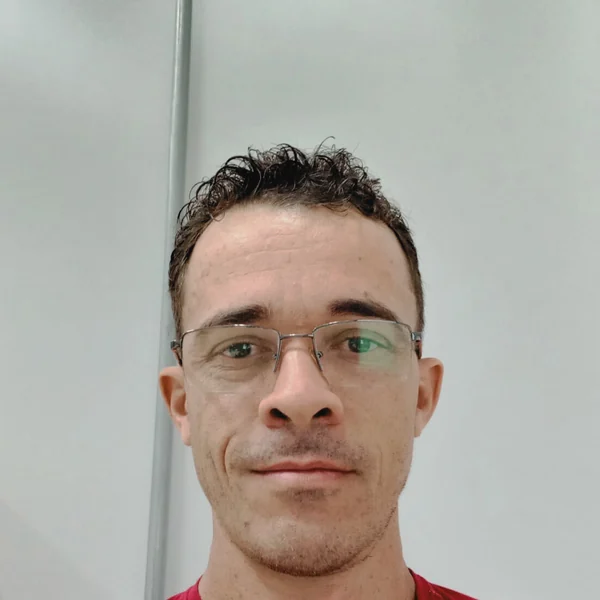
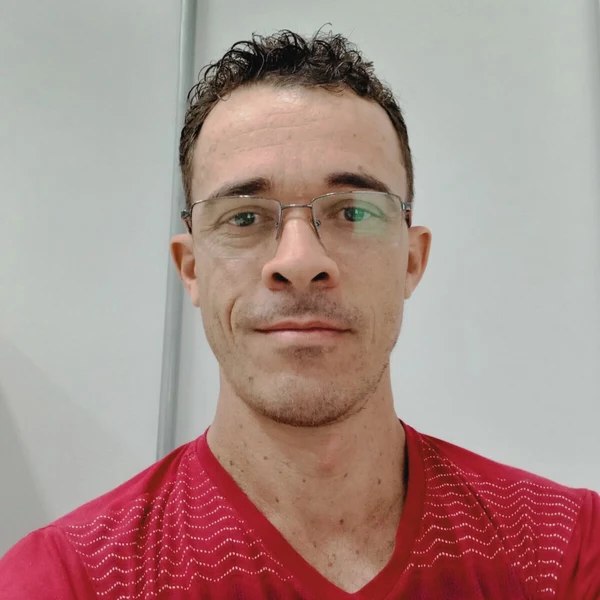
43.6

diff --git a/templates/sobre.html b/templates/sobre.html
@@ -36,25 +36,23 @@
             <p>Engenheiro Eletricista e Computacional · Doutor em Engenharia Elétrica e Computação</p>
             <nav class="author-popover-links" aria-label="Contatos de Daywes Pinheiro Neto">
               <a href="mailto:daywes.neto@ifg.edu.br">E-mail</a>
+              <a href="http://lattes.cnpq.br/3885723899789699" target="_blank" rel="noopener noreferrer">Lattes</a>
             </nav>
           </div>
         </div>
         <p class="author-popover-bio">
           Professor do Instituto Federal de Goiás, mestre e doutor pela UFG e pós-doutor pela Universidade de Coimbra. Atua em energias renováveis, mobilidade elétrica, engenharia econômica e computação aplicada.
         </p>
-        <a class="author-lattes-link" href="http://lattes.cnpq.br/3885723899789699" target="_blank" rel="noopener noreferrer">
-          Currículo Lattes <span aria-hidden="true">↗</span>
-        </a>
       </aside>
     </article>
 
     <article class="author-entry author-entry--center">
       <div class="author-summary">
-        <img class="author-avatar" src="{{ url_for('static', filename='img/institucional/carlos-roberto-silveira-junior.webp') }}" alt="Prof. Dr. Carlos Roberto da Silveira Júnior" loading="lazy">
+        <img class="author-avatar" src="{{ url_for('static', filename='img/institucional/carlos-roberto-silveira-junior.webp') }}" alt="Prof. Dr. Carlos Roberto da Silveira Jr." loading="lazy">
         <div class="author-identification">
           <span class="author-prefix">Prof. Dr.</span>
           <button class="author-name-link" type="button" data-author-popover="author-carlos" aria-expanded="false" aria-controls="author-carlos">
-            Carlos Roberto da Silveira Júnior
+            Carlos Roberto Silveira Jr.
           </button>
         </div>
       </div>
@@ -63,20 +61,18 @@
         <div class="author-popover-header">
           <img src="{{ url_for('static', filename='img/institucional/carlos-roberto-silveira-junior.webp') }}" alt="" aria-hidden="true">
           <div>
-            <h3 id="author-carlos-title">Prof. Dr. Carlos Roberto da Silveira Júnior</h3>
+            <h3 id="author-carlos-title">Prof. Dr. Carlos Roberto da Silveira Jr.</h3>
             <p>Professor titular do IFG · Doutor em Ciências Ambientais</p>
-            <nav class="author-popover-links" aria-label="Contatos de Carlos Roberto da Silveira Júnior">
-              <a href="https://www.linkedin.com/in/carlos-roberto-da-silveira-junior-957b47298/" target="_blank" rel="noopener noreferrer">LinkedIn</a>
+            <nav class="author-popover-links" aria-label="Contatos de Carlos Roberto da Silveira Jr.">
               <a href="mailto:carlos.junior@ifg.edu.br">E-mail</a>
+              <a href="https://www.linkedin.com/in/carlos-roberto-da-silveira-junior-957b47298/" target="_blank" rel="noopener noreferrer">LinkedIn</a>
+              <a href="http://lattes.cnpq.br/5503461601783322" target="_blank" rel="noopener noreferrer">Lattes</a>
             </nav>
           </div>
         </div>
         <p class="author-popover-bio">
           Mestre em Engenharia Elétrica e de Computação pela UFG. Atua em inteligência artificial, Internet das Coisas, sensoriamento remoto e sistemas eletrônicos de medição e controle.
         </p>
-        <a class="author-lattes-link" href="http://lattes.cnpq.br/5503461601783322" target="_blank" rel="noopener noreferrer">
-          Currículo Lattes <span aria-hidden="true">↗</span>
-        </a>
       </aside>
     </article>
 
@@ -95,19 +91,17 @@
           <img src="{{ url_for('static', filename='img/institucional/alisson-vieira-da-silva.webp') }}" alt="" aria-hidden="true">
           <div>
             <h3 id="author-alisson-title">Alisson Vieira da Silva</h3>
-            <p>Engenheiro de Controle e Automação · Mestrando em Tecnologia, Gestão e Sustentabilidade</p>
+            <p>Engenheiro de Controle e Automação · Estudante do PPGTGS em Energias Renováveis</p>
             <nav class="author-popover-links" aria-label="Contatos de Alisson Vieira da Silva">
-              <a href="https://www.linkedin.com/in/svalisson/" target="_blank" rel="noopener noreferrer">LinkedIn</a>
               <a href="mailto:sv.alisson@gmail.com">E-mail</a>
+              <a href="https://www.linkedin.com/in/svalisson/" target="_blank" rel="noopener noreferrer">LinkedIn</a>
+              <a href="http://lattes.cnpq.br/1978825412536553" target="_blank" rel="noopener noreferrer">Lattes</a>
             </nav>
           </div>
         </div>
         <p class="author-popover-bio">
-          Autor da CurVE, desenvolvida como produto técnico do Programa de Pós-Graduação em Tecnologia, Gestão e Sustentabilidade do Instituto Federal de Goiás.
+          Estudante do Programa de Pós-Graduação em Tecnologia, Gestão e Sustentabilidade do Instituto Federal de Goiás, com ênfase em Energias Renováveis.
         </p>
-        <a class="author-lattes-link" href="http://lattes.cnpq.br/1978825412536553" target="_blank" rel="noopener noreferrer">
-          Currículo Lattes <span aria-hidden="true">↗</span>
-        </a>
       </aside>
     </article>
   </div>
@@ -150,5 +144,5 @@
 
 {% block scripts %}
   {{ super() }}
-  <script src="{{ url_for('static', filename='js/sobre.js') }}?v=20260725_v43_05"></script>
+  <script src="{{ url_for('static', filename='js/sobre.js') }}?v=20260725_v43_06"></script>
 {% endblock %}

diff --git a/static/css/institucional.css b/static/css/institucional.css
@@ -51,7 +51,7 @@
   min-width: 0;
   display: flex;
   align-items: center;
-  padding: clamp(20px, 2.6vw, 30px);
+  padding: clamp(16px, 1.7vw, 20px);
 }
 
 .author-entry + .author-entry {
@@ -62,13 +62,13 @@
   min-width: 0;
   display: flex;
   align-items: center;
-  gap: 16px;
+  gap: 10px;
 }
 
 .author-avatar {
-  width: 78px;
-  height: 78px;
-  flex: 0 0 78px;
+  width: 58px;
+  height: 58px;
+  flex: 0 0 58px;
   display: block;
   border: 4px solid #f3f8f5;
   border-radius: 50%;
@@ -83,7 +83,7 @@
   flex-wrap: wrap;
   gap: 0 5px;
   color: var(--muted);
-  font-size: .9rem;
+  font-size: .78rem;
   line-height: 1.5;
 }
 
@@ -110,6 +110,7 @@
   text-decoration: underline;
   text-decoration-thickness: 1px;
   text-underline-offset: 3px;
+  white-space: nowrap;
   cursor: pointer;
 }
 
@@ -117,6 +118,10 @@
 .author-name-link:focus-visible,
 .author-entry.is-open .author-name-link {
   color: var(--primary-dark);
+}
+
+.author-entry--center .author-name-link {
+  font-size: .72rem;
 }
 
 .author-name-link:focus-visible {
@@ -211,8 +216,7 @@
   margin-top: 10px;
 }
 
-.author-popover-links a,
-.author-lattes-link {
+.author-popover-links a {
   color: #1d4ed8;
   font-size: 14px;
   font-weight: 600;
@@ -236,15 +240,7 @@
   line-height: 1.62;
 }
 
-.author-lattes-link {
-  display: inline-flex;
-  align-items: center;
-  gap: 5px;
-  margin-top: 16px;
-}
-
-.author-popover-links a:hover,
-.author-lattes-link:hover {
+.author-popover-links a:hover {
   color: var(--primary-dark);
 }
 
@@ -711,7 +707,6 @@
 
   .author-popover-header p,
   .author-popover-links a,
-  .author-lattes-link,
   .author-popover-bio {
     font-size: 13px;
   }

diff --git a/templates/base.html b/templates/base.html
@@ -9,7 +9,7 @@
   <link rel="preconnect" href="https://fonts.googleapis.com">
   <link rel="preconnect" href="https://fonts.gstatic.com" crossorigin>
   <link rel="stylesheet" href="{{ url_for('static', filename='css/app.css') }}?v=20260705_v35_marcadores_unificados">
-  <link rel="stylesheet" href="{{ url_for('static', filename='css/institucional.css') }}?v=20260725_v43_05">
+  <link rel="stylesheet" href="{{ url_for('static', filename='css/institucional.css') }}?v=20260725_v43_06">
   {% block head_extra %}{% endblock %}
 </head>
 <body class="internal-page">

diff --git a/tests/test_v43_institutional_pages.py b/tests/test_v43_institutional_pages.py
@@ -18,7 +18,7 @@ class V43InstitutionalPagesTests(unittest.TestCase):
     def test_about_keeps_requested_profile_order_and_contacts(self):
         html = (self.templates / "sobre.html").read_text(encoding="utf-8")
         daywes = html.index("Prof. Dr. Daywes Pinheiro Neto")
-        carlos = html.index("Prof. Dr. Carlos Roberto da Silveira Júnior")
+        carlos = html.index("Prof. Dr. Carlos Roberto da Silveira Jr.")
         alisson = html.index("Alisson Vieira da Silva")
         self.assertLess(daywes, carlos)
         self.assertLess(carlos, alisson)
@@ -35,7 +35,7 @@ class V43InstitutionalPagesTests(unittest.TestCase):
         self.assertEqual(html.count('class="author-popover"'), 3)
 
 
-    def test_about_v43_05_author_card_and_hover_popovers(self):
+    def test_about_v43_06_author_card_and_hover_popovers(self):
         html = (self.templates / "sobre.html").read_text(encoding="utf-8")
         script = (self.root / "static" / "js" / "sobre.js").read_text(encoding="utf-8")
         css = (self.root / "static" / "css" / "institucional.css").read_text(encoding="utf-8")
@@ -63,7 +63,13 @@ class V43InstitutionalPagesTests(unittest.TestCase):
         ):
             self.assertIn(url, html)
 
-        self.assertEqual(html.count('class="author-lattes-link"'), 3)
+        self.assertNotIn('class="author-lattes-link"', html)
+        self.assertEqual(html.count('>Lattes</a>'), 3)
+        self.assertIn("Carlos Roberto da Silveira Jr.", html)
+        self.assertNotIn("Carlos Roberto da Silveira Júnior", html)
+        self.assertIn("Estudante do PPGTGS em Energias Renováveis", html)
+        self.assertIn("com ênfase em Energias Renováveis", html)
+        self.assertNotIn("Autor da CurVE", html)
         self.assertIn("mouseenter", script)
         self.assertIn("focusin", script)
         self.assertIn("aria-expanded", script)
@@ -74,6 +80,7 @@ class V43InstitutionalPagesTests(unittest.TestCase):
         self.assertIn(".author-entry + .author-entry", css)
         self.assertIn(".author-summary {", css)
         self.assertIn("font-weight: 400;", css)
+        self.assertIn("white-space: nowrap;", css)
         self.assertIn("position: absolute;", css)
 
     def test_contact_form_does_not_post_to_unimplemented_route(self):
